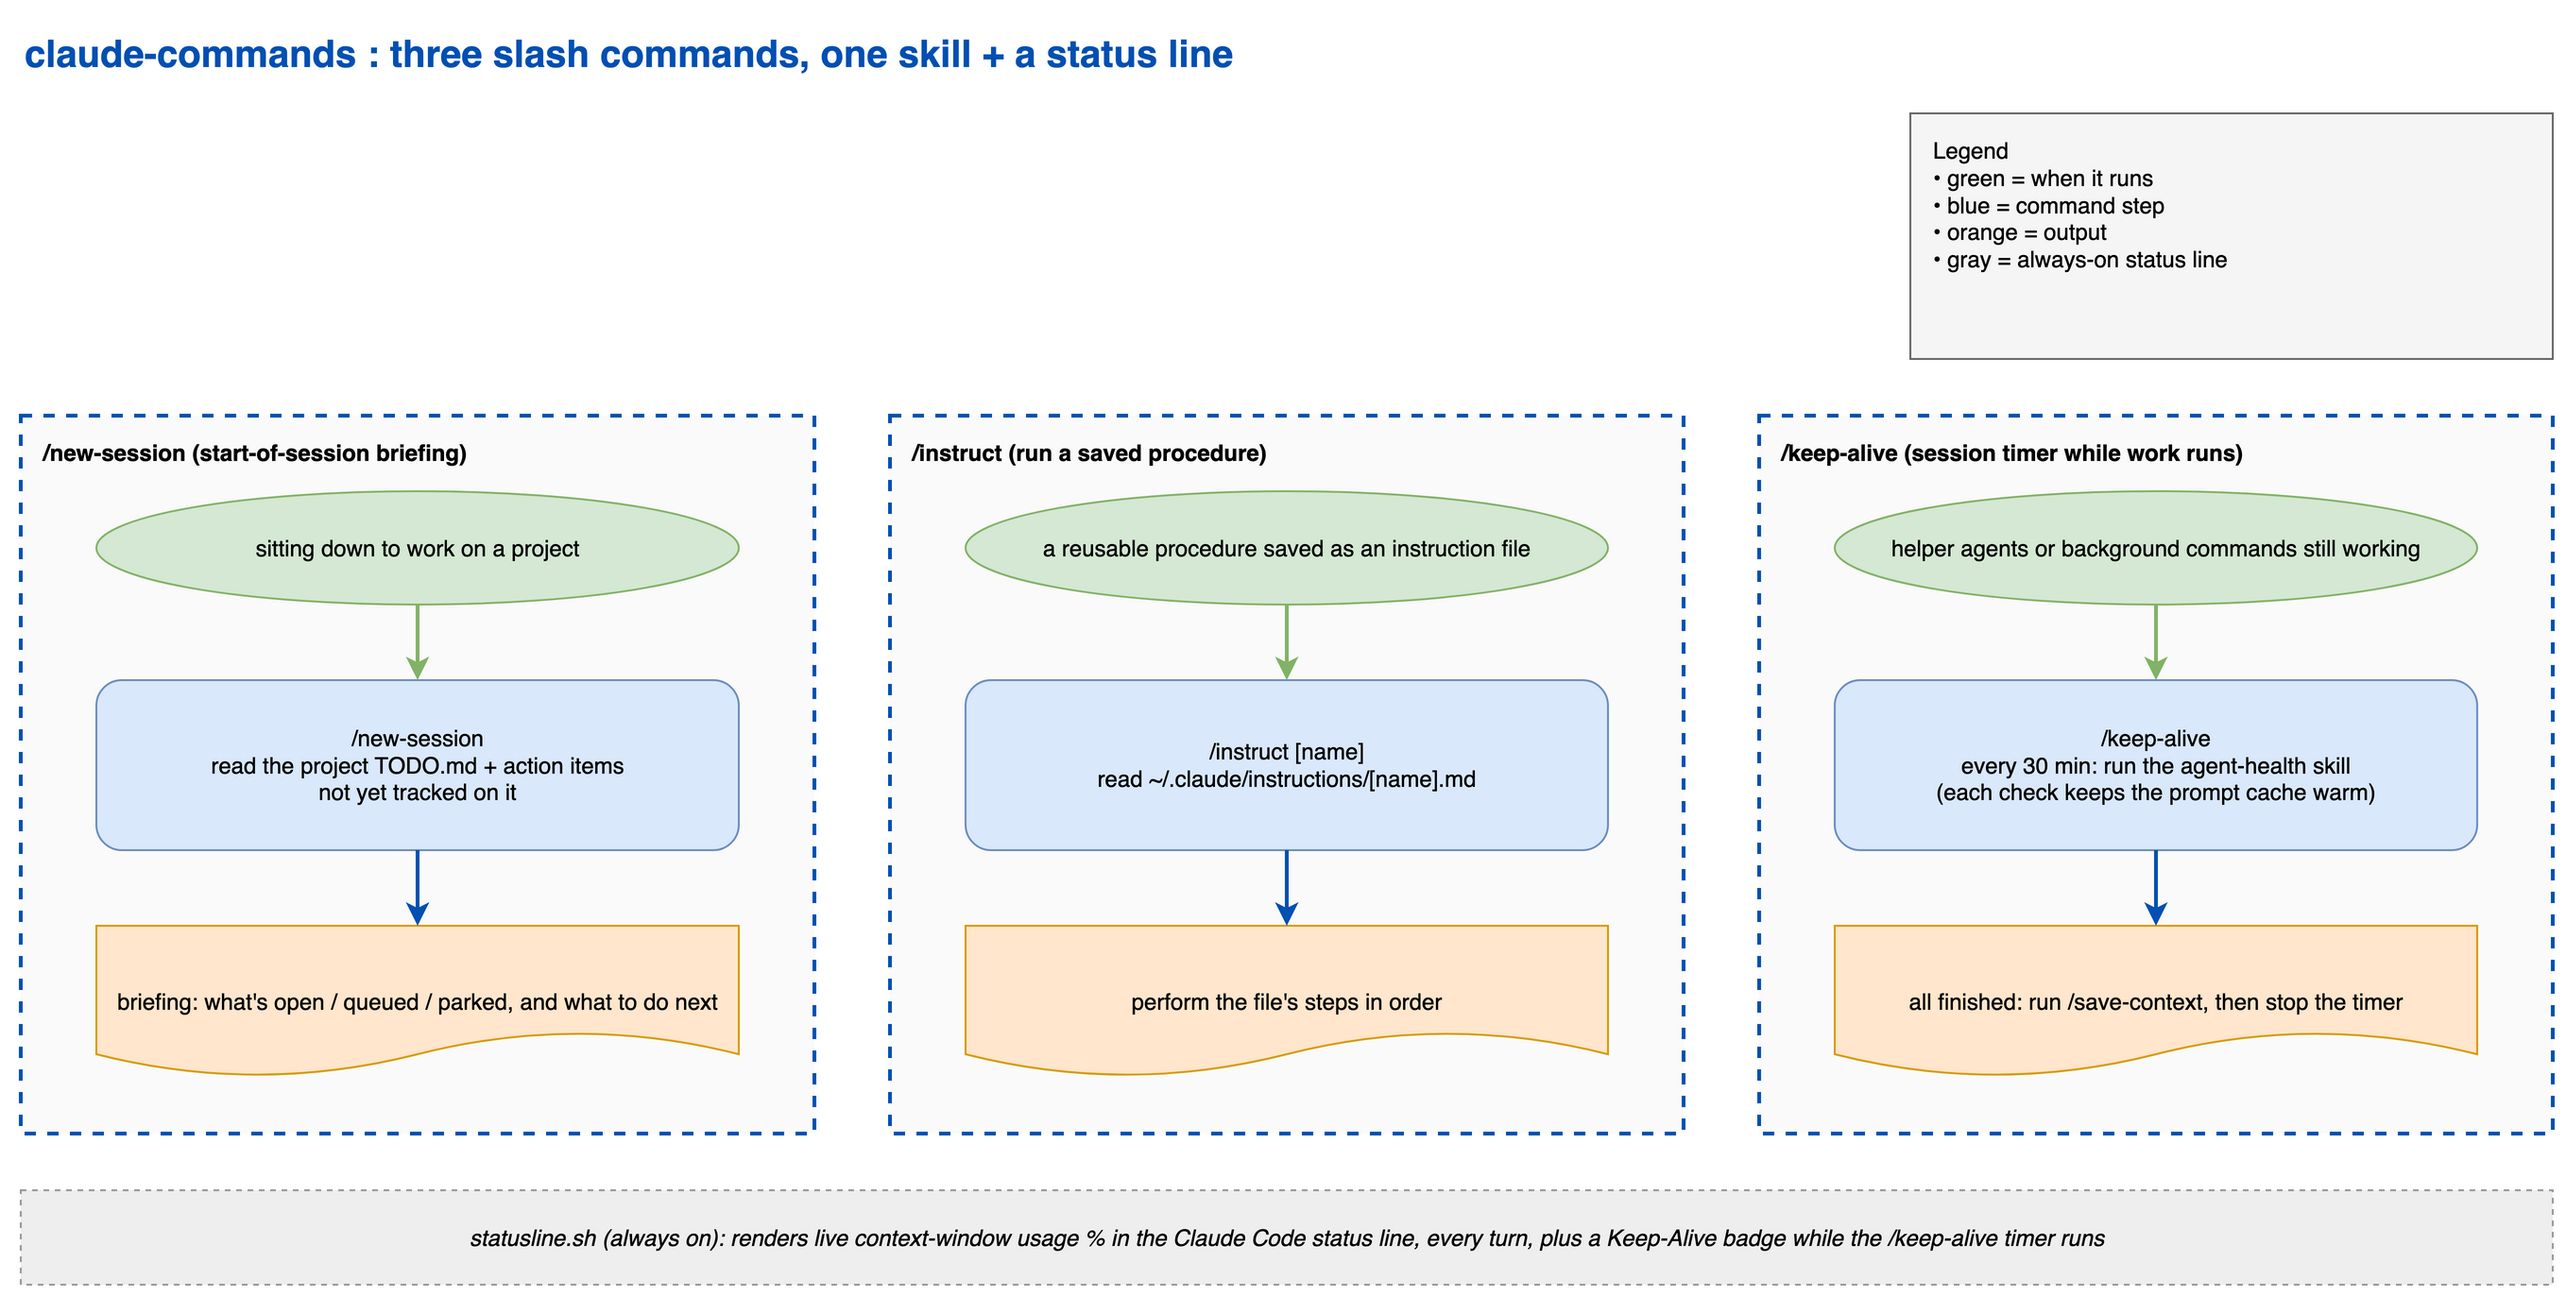
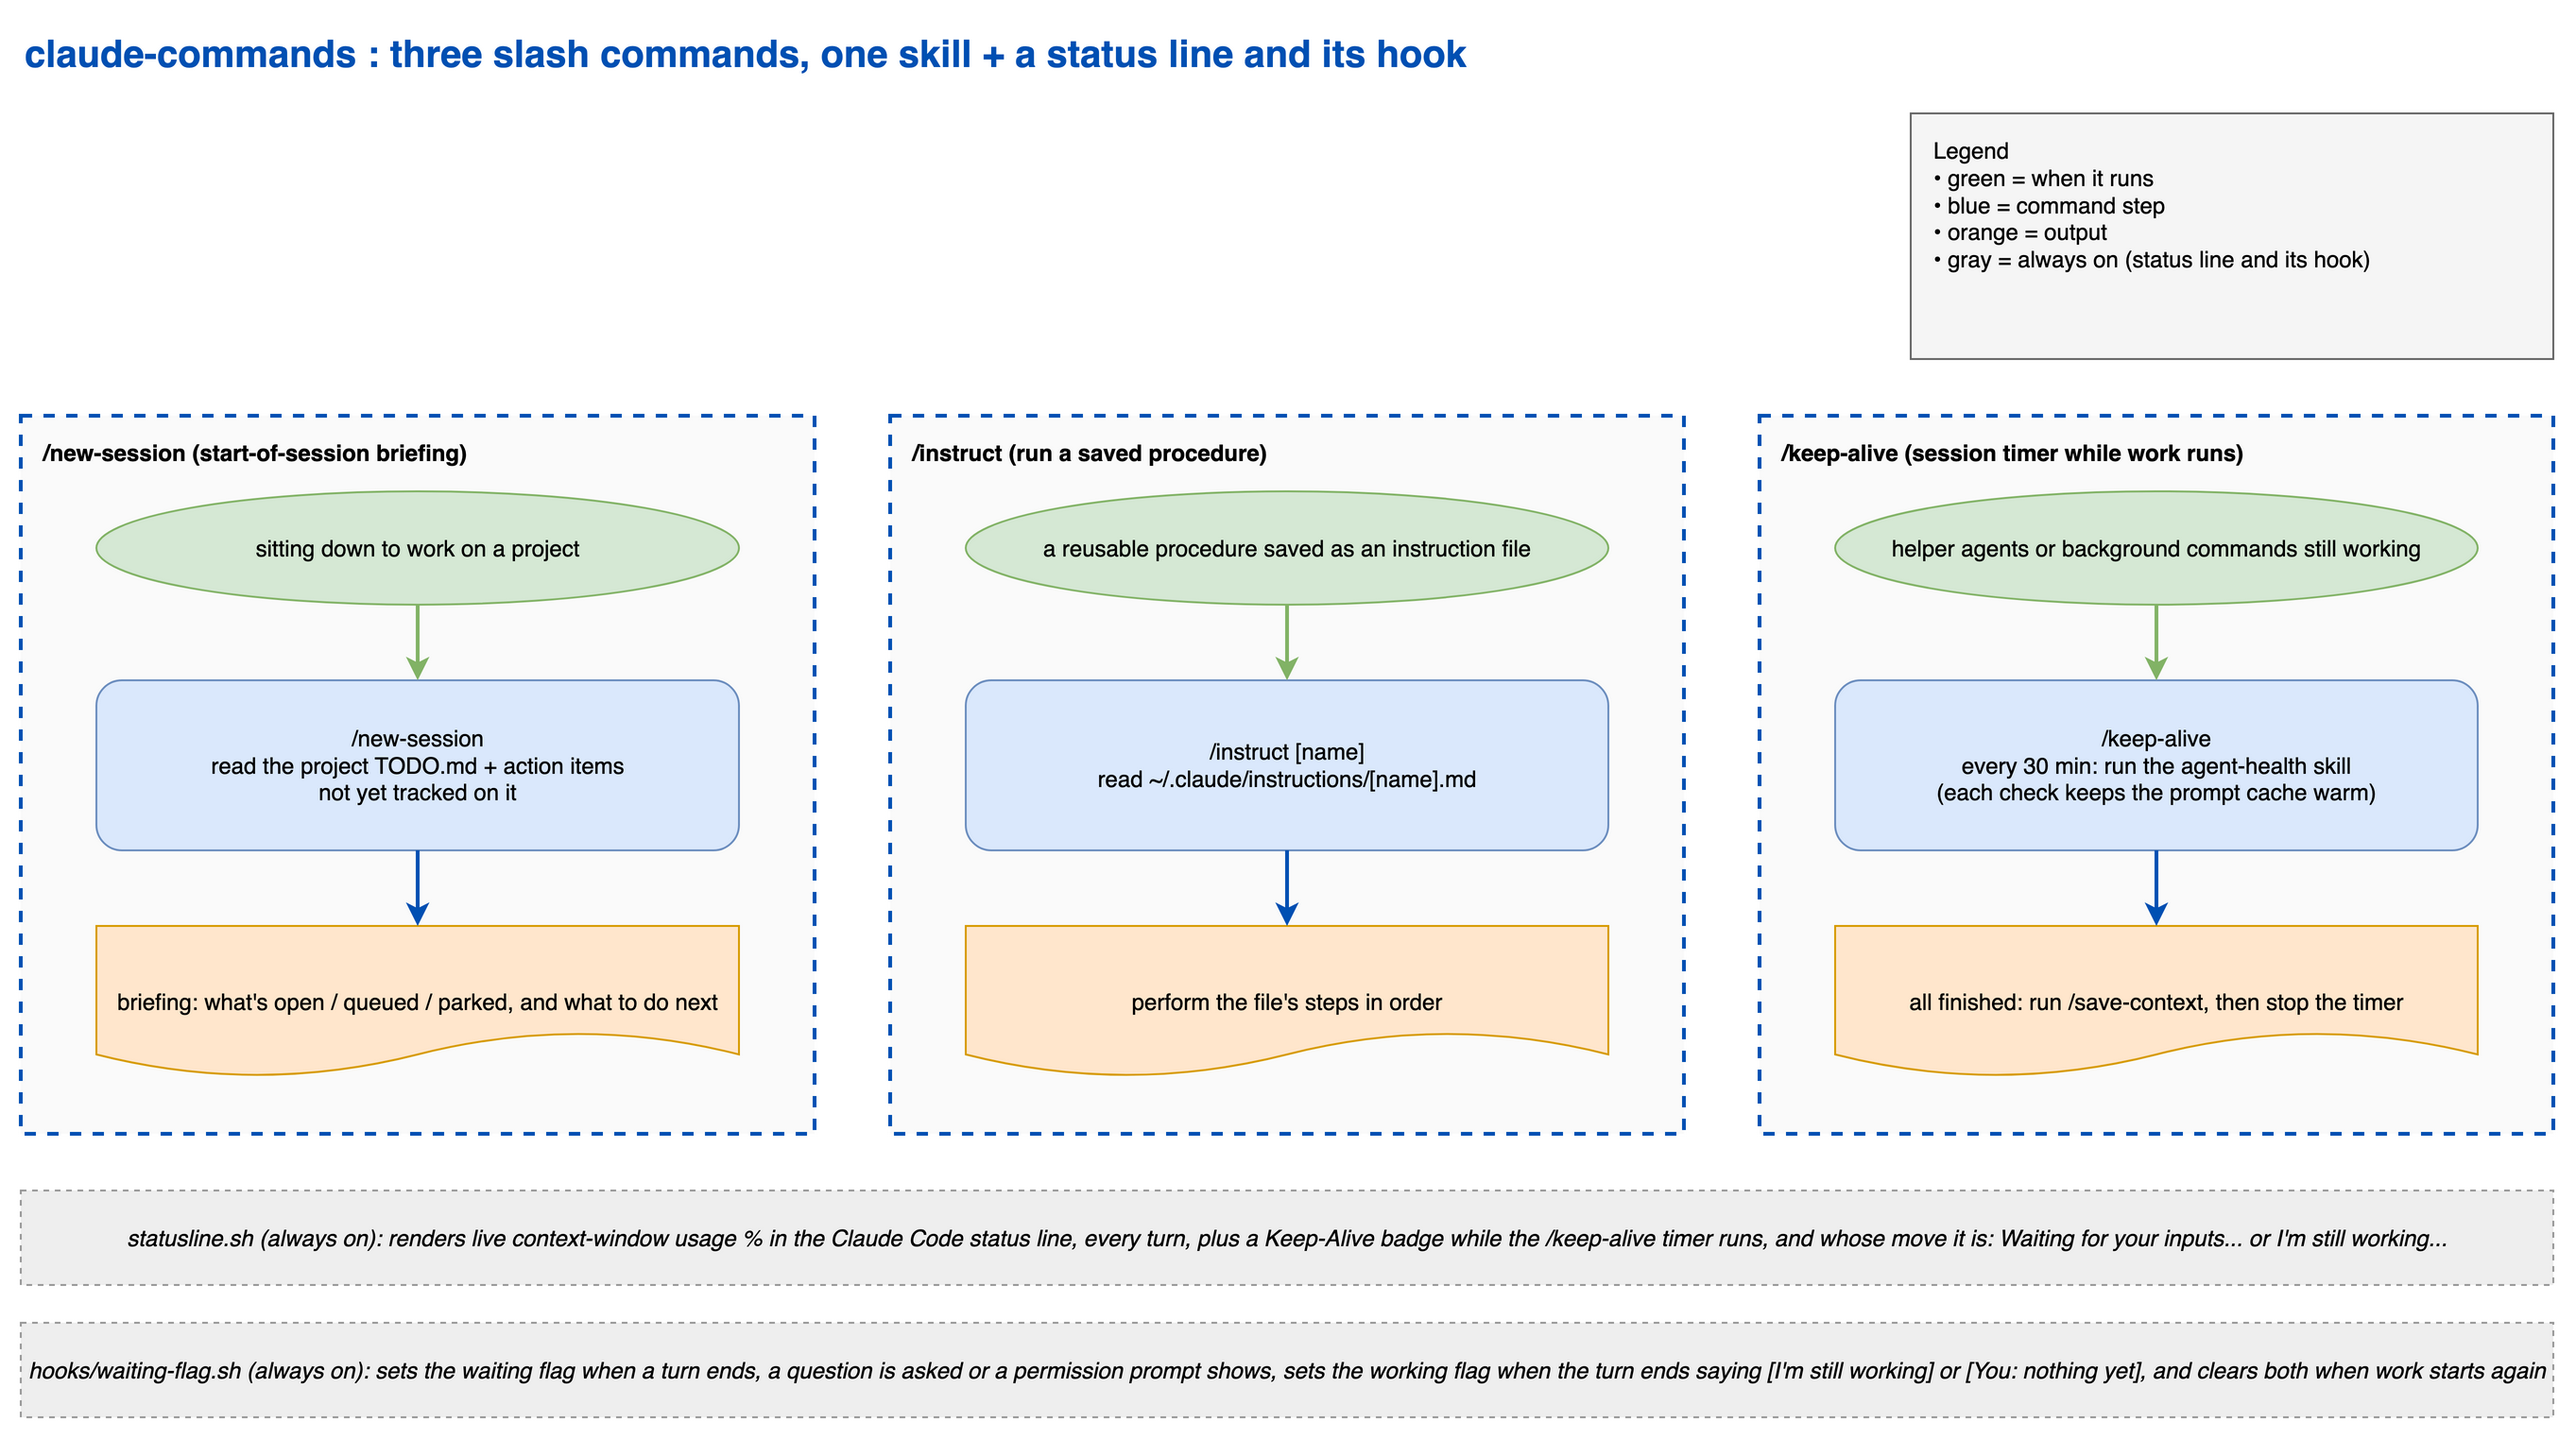
Status line: show whose move it is, with the waiting-flag hook
statusline.sh ends with "Waiting for your inputs..." when the session
needs you and "I'm still working..." when the turn ended while work still
runs. The new hooks/waiting-flag.sh sets and clears the flag, and the
README shows how to wire it. Also brings /new-session up to date: it reads
the pin first and takes due dates and counts from the whole file.

diff --git a/hooks/tests/test_waiting_flag.py b/hooks/tests/test_waiting_flag.py
@@ -1,0 +1,56 @@
+#!/usr/bin/env python3
+"""hooks/waiting-flag.sh: which flag a Stop leaves, so the status line says the right thing.
+
+Runs the real hook with HOME pointed at a temp folder.
+"""
+import json
+import os
+import subprocess
+import sys
+import tempfile
+
+HOOK = os.environ.get(
+    "HOOK_UNDER_TEST", os.path.expanduser("~/.claude/hooks/waiting-flag.sh"))
+SID = "11111111-2222-3333-4444-555555555555"
+
+
+def run(mode, event, msg, home):
+    data = {"session_id": SID, "hook_event_name": event, "last_assistant_message": msg}
+    env = dict(os.environ, HOME=home)
+    subprocess.run(["bash", HOOK, mode], input=json.dumps(data), text=True,
+                   env=env, check=True, timeout=30)
+    d = os.path.join(home, ".claude", ".statusline-state")
+    return (os.path.exists(os.path.join(d, "waiting-" + SID)),
+            os.path.exists(os.path.join(d, "working-" + SID)))
+
+
+WORKING = (False, True)
+WAITING = (True, False)
+CASES = [
+    # a turn that ends on a bare "You: nothing yet."
+    ("set", "Stop", "**Done:** pin.\n\n**Now:** suite.\n\n**You:** nothing yet.", WORKING),
+    ("set", "Stop", "**You:** nothing yet, I'm still working.", WORKING),
+    ("set", "Stop", "You: nothing yet. I" + chr(0x2019) + "m still working.", WORKING),
+    # twins that must stay "waiting"
+    ("set", "Stop", "**You:** your turn. Pick one: 1, 2 or 3.", WAITING),
+    ("set", "Stop", "Nothing yet has been deployed. **You:** run the release.", WAITING),
+    ("set", "Notification", "**You:** nothing yet.", WAITING),
+]
+
+fails = 0
+for mode, event, msg, want in CASES:
+    with tempfile.TemporaryDirectory() as home:
+        got = run(mode, event, msg, home)
+    ok = got == want
+    fails += not ok
+    print(("ok   " if ok else "FAIL ") + f"{event}: {msg[-45:]!r} -> waiting={got[0]} working={got[1]}")
+
+with tempfile.TemporaryDirectory() as home:
+    run("set", "Stop", "**You:** nothing yet.", home)
+    got = run("clear", "UserPromptSubmit", "", home)
+ok = got == (False, False)
+fails += not ok
+print(("ok   " if ok else "FAIL ") + "clear removes both flags")
+
+print(f"{len(CASES) + 1 - fails}/{len(CASES) + 1} passed")
+sys.exit(1 if fails else 0)

diff --git a/README.md b/README.md
@@ -11,6 +11,7 @@ Source: [docs/commands-flow.drawio](docs/commands-flow.drawio) (editable in draw
 - **`/keep-alive`**: a session timer for long background work. Every 30 minutes it checks the helper agents, background commands and headless runs this session started, and reports them in three lines. Each check is a turn, so it also keeps the session's prompt cache warm while you wait. Once everything has finished and you have not written since the last check, it saves the session with `/save-context` and switches itself off. `/keep-alive stop` ends it early.
 - **`agent-health`** (skill): answers "is the work still moving, and should I wait?" for one project folder. It finds the headless `claude -p` runs started there, their helper agents and child processes, and any background command a session started that has not reported back, and reads the Mac's last wake from sleep so a laptop that was closed does not look like a hang. Each run gets a verdict: WORKING, WAITING, JUST WOKE or STALLED. With `--ping-when-done` it also starts one watcher that shows a macOS notification and plays a sound when the last run in the folder ends. `/keep-alive` uses it on every tick.
 - **`statusline.sh`** — prints e.g. `[Opus 5] claude-commands (main) · 37% used · 63% left · 74K/200K` (model, current directory and git branch, context used and remaining percentage, and the in-window token count vs capacity) so your usage is always visible at the bottom of the terminal. Two parts are color-coded. The context percentage is green below 40% used, yellow from 40 to 60%, and red above 60%. The token count is a gauge of the same kind: green while under 400K, a yellow `over 400K` flag once it passes 400K, and a red `over 600K` past 600K (those flags only appear in extended-context sessions, where the window is larger than 400K). The cutoffs (`YELLOW_PCT`, `RED_PCT`, `OVER_YELLOW`, `OVER_RED`) are variables at the top of the script; change them to retarget the colors and flags. The model shown is the one that actually produced the last reply, read from the session transcript, not just the session setting. A skill or command whose frontmatter pins a different model shows as `[Opus 5→Sonnet 5]` while it is active and reverts on the next plain turn, so a per-turn override is visible instead of silent.
+- **`hooks/waiting-flag.sh`** (optional, pairs with the status line): adds `Waiting for your inputs...` to the status line when the session needs you, and `I'm still working...` when the last turn ended while background work still runs. See "Whose move it is" below.
 
 ## Install
 
@@ -100,6 +101,41 @@ The skill's own steps never withdraw its own badge, including a report it prints
 and any agent it spawns. Verdicts are cached per session, and each redraw reads
 only the transcript bytes added since the last one, so a long session costs about
 the same as a short one.
+
+#### Whose move it is (optional)
+
+With `hooks/waiting-flag.sh` installed, the status line ends with one of two labels:
+
+- `Waiting for your inputs...` when a turn ends, Claude asks you a question, or a permission prompt shows.
+- `I'm still working...` when the turn ended with a message saying "I'm still working", or with a line `You: nothing yet` (Markdown bold is fine). This fits a CLAUDE.md that asks Claude to end each turn with a `You:` line saying what you must do next.
+
+Both labels go away when you send a message or a tool runs again.
+
+1. Copy the hook:
+   ```bash
+   mkdir -p ~/.claude/hooks
+   cp hooks/waiting-flag.sh ~/.claude/hooks/waiting-flag.sh
+   ```
+2. Merge this into `~/.claude/settings.json`. The `refreshInterval` redraws the status line every 10 seconds, so a label changes even while nothing else happens:
+   ```json
+   {
+     "statusLine": {
+       "type": "command",
+       "command": "bash ~/.claude/statusline.sh",
+       "refreshInterval": 10
+     },
+     "hooks": {
+       "Stop": [{"hooks": [{"type": "command", "command": "bash $HOME/.claude/hooks/waiting-flag.sh set", "timeout": 5}]}],
+       "Notification": [{"matcher": "permission_prompt|agent_needs_input|elicitation_dialog", "hooks": [{"type": "command", "command": "bash $HOME/.claude/hooks/waiting-flag.sh set", "timeout": 5}]}],
+       "PreToolUse": [{"matcher": "AskUserQuestion", "hooks": [{"type": "command", "command": "bash $HOME/.claude/hooks/waiting-flag.sh set", "timeout": 5}]}],
+       "UserPromptSubmit": [{"hooks": [{"type": "command", "command": "bash $HOME/.claude/hooks/waiting-flag.sh clear", "timeout": 5}]}],
+       "PostToolUse": [{"matcher": "*", "hooks": [{"type": "command", "command": "bash $HOME/.claude/hooks/waiting-flag.sh clear", "timeout": 5}]}]
+     }
+   }
+   ```
+   If you already have hooks for these events, add these entries to your existing lists.
+
+The hook never blocks and never prints. It keeps one empty file per session in `~/.claude/.statusline-state/`. Its test runs the real hook in a temp folder: `python3 hooks/tests/test_waiting_flag.py` (set `HOOK_UNDER_TEST` to test a copy somewhere else).
 
 ## Notes
 

diff --git a/commands/new-session.md b/commands/new-session.md
@@ -23,15 +23,19 @@ State the resolved project, the path to its `TODO.md` (`~/.claude/projects/<X>/T
 
 ## Part 1: Open TODO items (this project)
 
+**When Read refuses `TODO.md` as too large, read the pin BEFORE anything else:** `grep -n 'NEXT SESSION\|^## ' <file>`, then Read that block by `offset` and `limit`. A later message naming work ("re-run the scan") is answered by the command in that block, so it has to be in front of you first.
+
 Read `~/.claude/projects/<X>/TODO.md`. Render the **open** (unchecked `- [ ]`) items, grouped by the buckets the file actually uses (honor any non-canonical bucket labels or extra buckets a curated file has; render a pin block first if present). Lead with a one-line count summary (e.g. "3 active, 1 queued, 1 parked"). Skip struck/`- [x]` items.
 
 Surface due dates against today's date (today is in the session context): annotate `OVERDUE` if past, `due in Nd` if within 7 days. Recognize the `(due YYYY-MM-DD)` suffix and prose `Due YYYY-MM-DD` / `by YYYY-MM-DD` forms. The annotation is for display only; do not write it into the file.
+
+**Take due dates and counts from the whole file, whatever you then show:** `grep -nE '^\s*- \[ \].*([Dd]ue|by) 20[0-9]{2}-[0-9]{2}-[0-9]{2}' <TODO.md>` and a count per bucket that includes a Parked bucket's plain bullets. For a long file, show the top items per bucket and say how many you left out. Done when every due date is flagged and the count covers every bucket.
 
 If no `TODO.md` exists, say so.
 
 ## Part 2: Open action items NOT in the TODO list
 
-Sweep the sources below for open/pending work, then **reconcile against Part 1**: drop anything already represented in `TODO.md` (substring or clear semantic match) and present only what is uncaptured. The goal is to catch loose ends the TODO doesn't know about. Run the read-only commands in parallel where possible; tolerate missing tools (skip a source silently if its tool/file is absent).
+Sweep the sources below for open/pending work, then **reconcile against Part 1**: drop anything already represented in `TODO.md` (substring or clear semantic match) and present only what is uncaptured. The goal is to catch loose ends the TODO doesn't know about. **Before an item goes on that list, search the whole TODO for it** with `grep -n -i -F -- '<PR number, branch or word>' <TODO.md>`, reading the full output with no `head`, `cut` or line limit in front of it. A hit means it is tracked, and it can sit on a Parked bullet with no checkbox. Done when each uncaptured item has a search with no hits behind it. Run the read-only commands in parallel where possible; tolerate missing tools (skip a source silently if its tool/file is absent).
 
 1. **Project CLAUDE.md**: scan for pending work in sections like "Still blocked", "Open questions", "Next steps", "Deferred", "TODO", and any gotcha that names an unresolved action. Pull the open ones.
 2. **Project memory** (if you keep one): the memory files that name this project, `find ~/.claude/projects -maxdepth 3 -path '*/memory/*.md' -exec grep -liF -- "<x>" {} +` (**every store, never one**: a store follows the session's launch directory, so reading a single one misses the memories written from anywhere else). In the files it returns, look for: any "awaiting", "blocked on", "pending", or unfinished-decision items. Skip if no memory folder exists.
@@ -49,7 +53,7 @@ Keep it scannable and short, one screen if possible:
 
 1. Resolved project and file paths (one line).
 2. **In TODO**: open items by bucket, with due-date flags.
-3. **Open, not in TODO**: uncaptured items with source tags, or "nothing uncaptured".
+3. **Open, not in TODO**: uncaptured items with source tags, or "nothing uncaptured". Then one line naming each source that exists and that you did not run.
 4. A closing line: if Part 2 found uncaptured items, offer to add them to `TODO.md` (ask first; do not add unprompted). Otherwise suggest the single most sensible next action based on what you found.
 
 Do not pad the briefing with restated CLAUDE.md detail; link or point rather than copy. Follow plain-prose conventions (no em dashes in your own prose, no box-drawing characters in any table).
